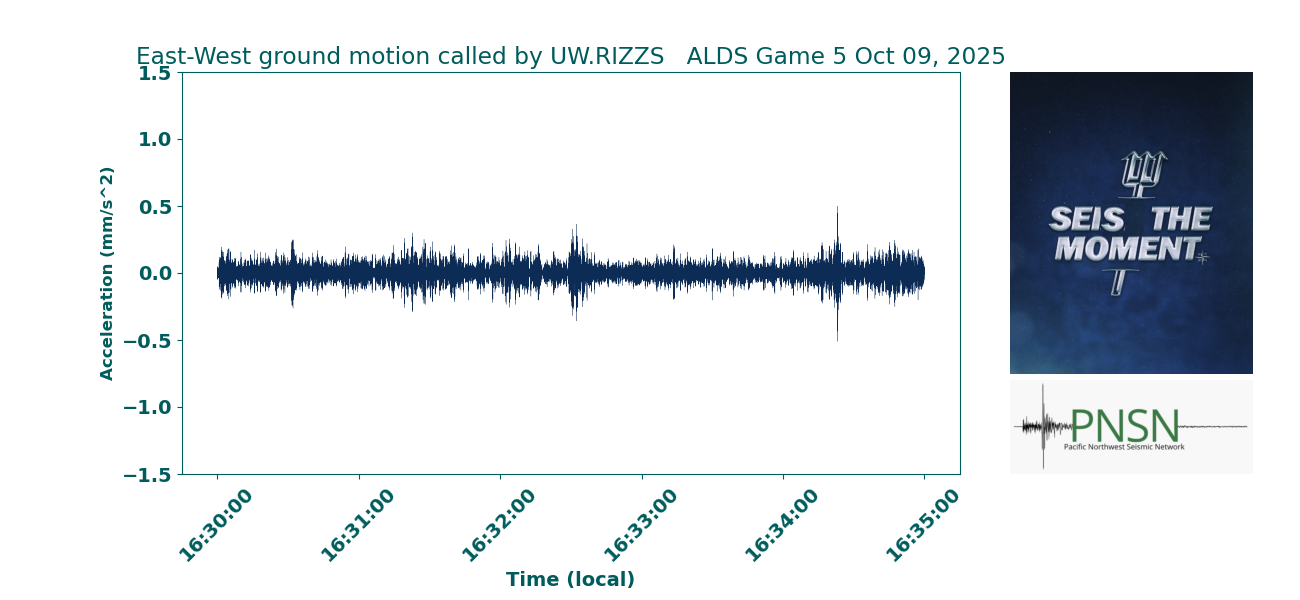
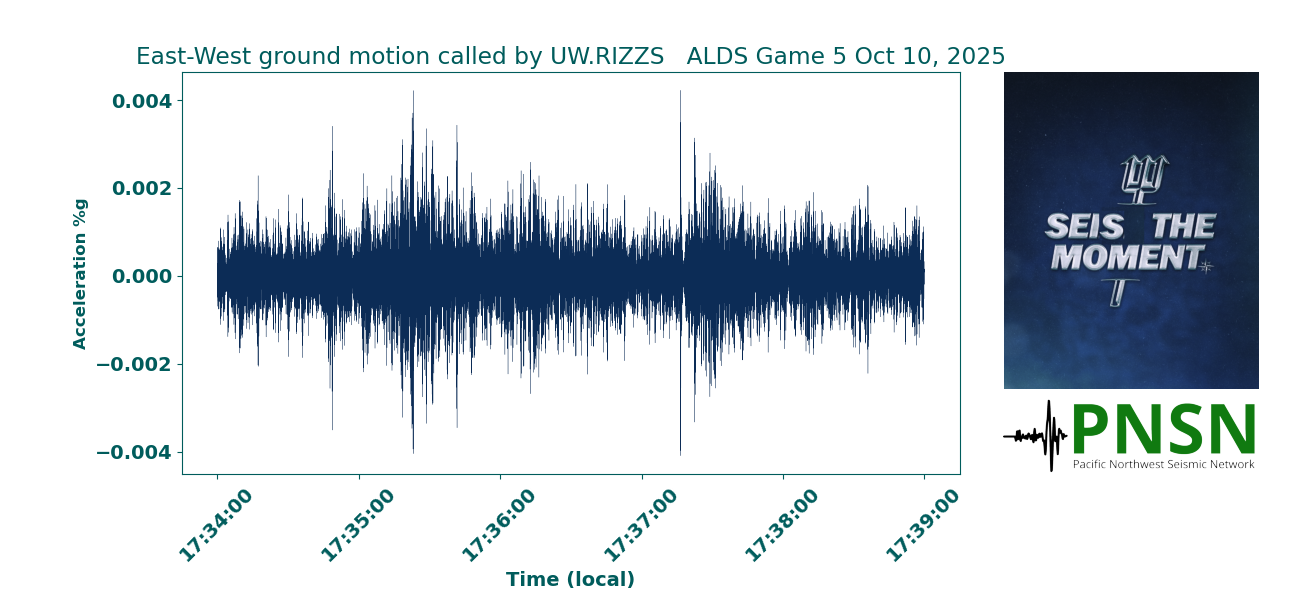
Make time parameters variables

diff --git a/MarinersQuake.py b/MarinersQuake.py
@@ -25,12 +25,24 @@ station = "RIZZS"
 location = "--"
 channel = "HNZ"
 
+# use variables for time window
+year = 2025
+month = 10
+day_start = 10
+day_end = 10
+hr_start = 22
+min_start = 2
+sec_start = 0
+hr_end = 22
+min_end = 8
+sec_end = 0
+
 # Define the y-axis limits in mm/s^2. Default is None/auto-scale.
 #ylimits = 1.5
 
 # Define figure title
-title_line1 = "  Vertical ground motion called by UW.RIZZS   ALCS Game 3 Oct 15, 2025"
-title_line2 = "  Something amazing.... MARINERS WIN!!"
+title_line1 = "  Starting vertical ground motion called by UW.RIZZS   ALCS Game 3 Oct 15, 2025"
+title_line2 = "  This is what inbetween innings looks like (loud music thumping)"
 make_gif = False   # also create a GIF version
 show_time_marker = False  # include a red line sliding in time in the animation
 
@@ -40,14 +52,16 @@ fps = 20  # (20 is smooth if only showing ~20 sec)
 # Define start and end times using local times 
 pacific = pytz.timezone('America/Los_Angeles')
 utc = pytz.utc
-plot_start_time_local = pacific.localize(datetime(2025, 10, 10, 22, 7, 5))
-plot_end_time_local = pacific.localize(datetime(2025, 10, 10, 22, 7, 30))
-video_start_local = pacific.localize(datetime(2025, 10, 10, 22, 7, 12))
-video_end_local   = pacific.localize(datetime(2025, 10, 10, 22, 7, 30))
-
+video_start_local = pacific.localize(datetime(year, month, day_start, hr_start, min_start, sec_start))
+video_end_local   = pacific.localize(datetime(year, month, day_end, hr_end, min_end, sec_end))
 animation_filename = "UW.RIZZS_animation.mp4"
+plot_start_time_local = pacific.localize(datetime(year, month, day_start, hr_start, min_start, sec_start))
+plot_end_time_local = pacific.localize(datetime(year, month, day_end, hr_end, min_end, sec_end))
+
 plot_start_time = plot_start_time_local.astimezone(utc)
 plot_end_time = plot_end_time_local.astimezone(utc)
+video_start = video_start_local.astimezone(utc)
+video_end   = video_end_local.astimezone(utc)
 
 # Define frequency bands for the response removal
 pre_filt = (0.2, 0.3, 30.0, 35.0)
@@ -76,9 +90,9 @@ ground_motion_type = "ACC"
 ground_motion_label = {}
 if ground_motion_type == "ACC":
     ground_motion_label = "Acceleration"
-    #ground_motion_units = "(m/s^2)"
-    #ground_motion_units = "(mm/s^2)"
-    ground_motion_units = "% g"
+#    ground_motion_units = "(m/s^2)"
+#    ground_motion_units = "(mm/s^2)"
+    ground_motion_units = "%g"
 elif ground_motion_type == "VEL":
     ground_motion_label = "Velocity"
     ground_motion_units = "(m/s)"
@@ -88,7 +102,7 @@ elif ground_motion_type == "DISP":
 
 # Download data
 julian_day = UTCDateTime(plot_start_time).julday
-mseed_url = "https://seismo.ess.washington.edu/~ahutko/UW.RIZZS/UW.RIZZS.." + channel + ".2025." + str(julian_day)
+mseed_url = f"https://seismo.ess.washington.edu/~ahutko/UW.RIZZS/UW.RIZZS..{channel}.{year}.{julian_day}"
 xml_url = "https://seismo.ess.washington.edu/~ahutko/UW.RIZZS/Station_UW_RIZZS.xml"
 
 with open("waveform.mseed", "wb") as f:
@@ -113,7 +127,9 @@ try:
 
     # Extract data for plotting
     tr = st[0]
-    data = tr.data * 100 / 9.8 # go from m/s^2 to %g
+    #data = tr.data * 1000. # mm/s/s
+    data = ( tr.data / 9.8 ) * 100 # percent g
+    #data = tr.data
     times = [datetime.utcfromtimestamp(plot_start_time.timestamp() + t) for t in tr.times()]
 
     # Calculate dynamic time offset based on date and daylight saving
@@ -155,6 +171,11 @@ try:
     ax_plot.set_ylabel(f"{ground_motion_label} {ground_motion_units}",
                        color=text_color, fontsize=12, fontweight="bold")
     ax_plot.tick_params(axis='both', which='both', colors=text_color)
+
+    #sec_ax = ax_plot.secondary_yaxis("right",functions=(lambda x: (100.*x)/9.8, lambda x: 9.8*x/100.))
+    #sec_ax.set_ylabel("%g")
+    
+    # Set the spine color to the same as text_color
     for spine in ax_plot.spines.values():
         spine.set_color(text_color)
 
@@ -177,6 +198,8 @@ try:
     # --- Adjust the y-axis of seismogram if desired
     try:
         ax_plot.set_ylim([-1*ylimits,ylimits])
+        sec_ax = ax_plot.secondary_yaxis("right",functions=(lambda x: (100.*x)/9.8, lambda x: 9.8*x/100.))
+        sec_ax.set_ylabel("%g")
     except:
         pass
 
